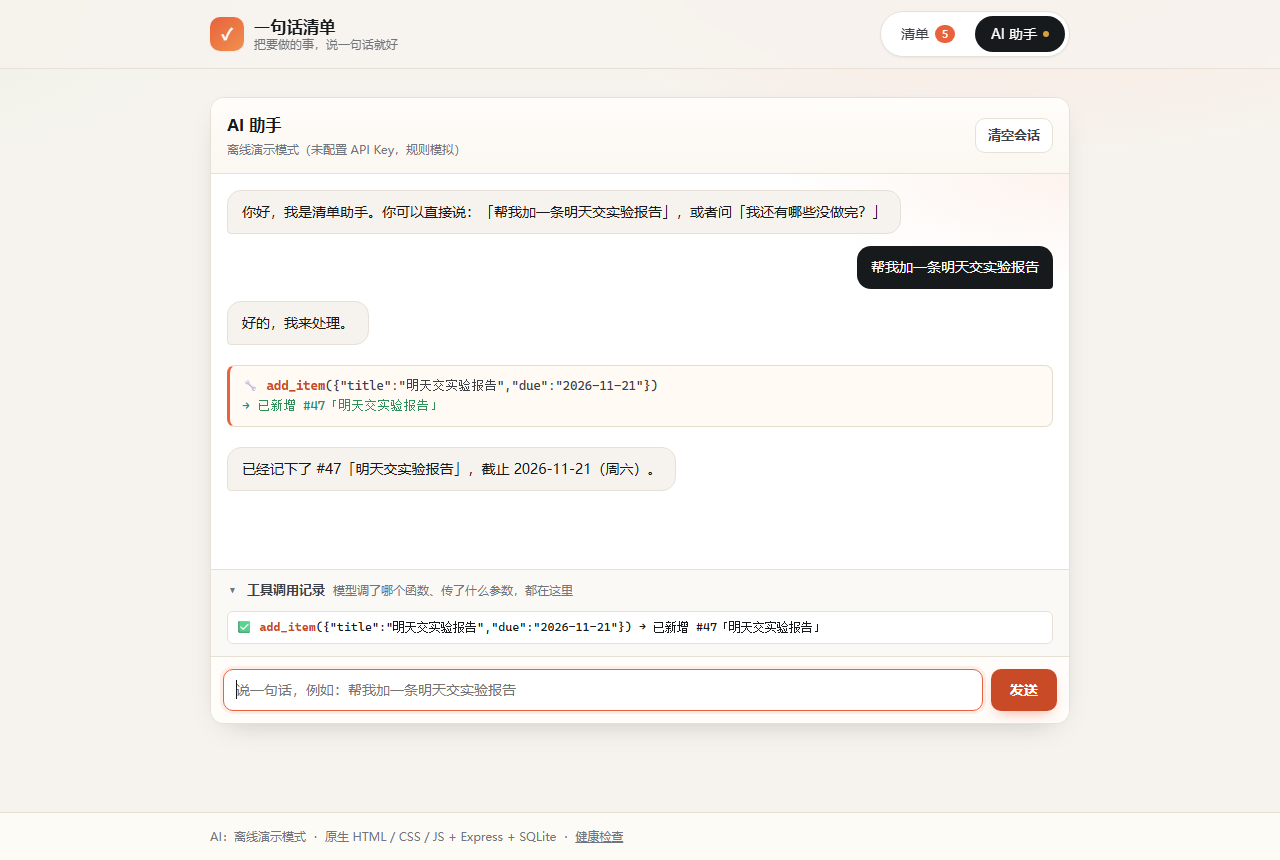
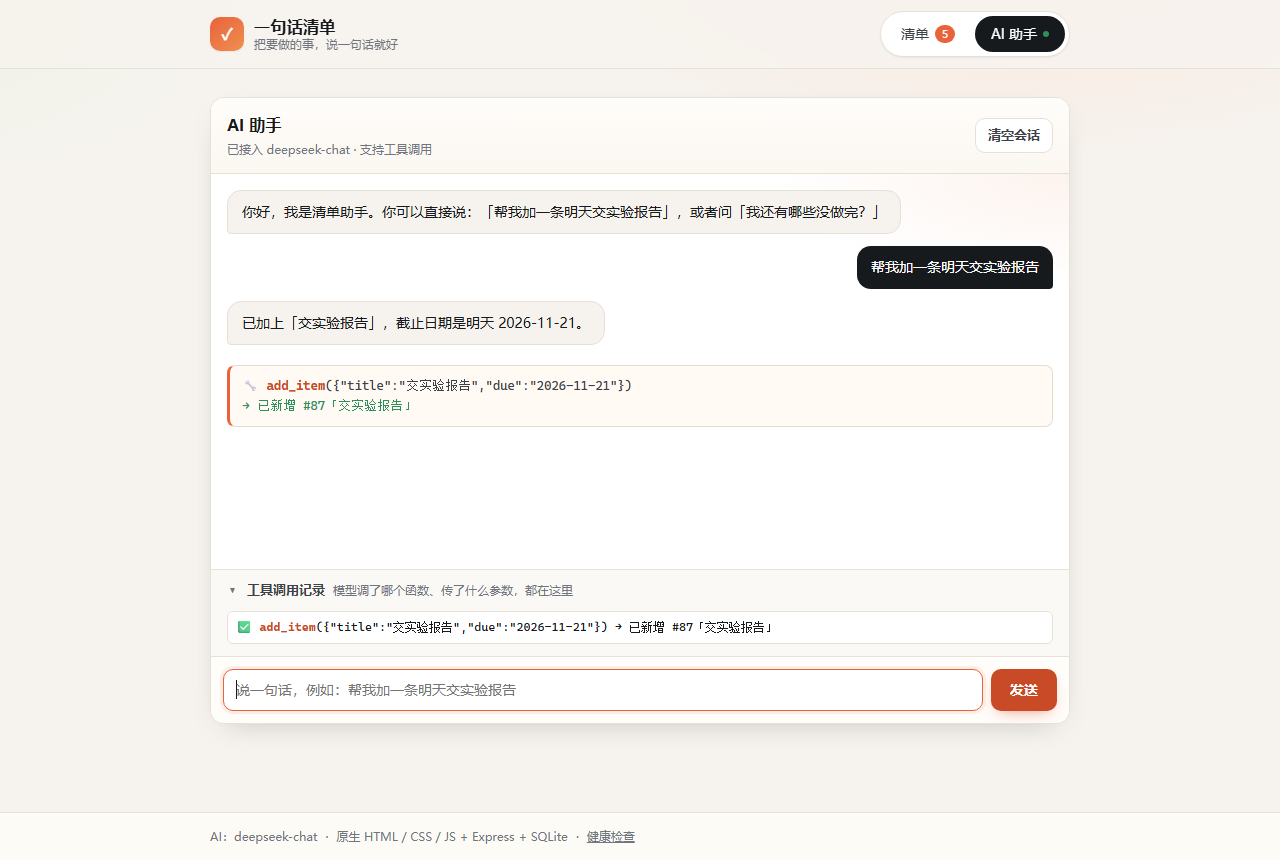
feat(ai): 接入真实 deepseek-chat，并修掉「明天」被算错日期的 bug
- 系统提示词动态注入当前日期与星期，相对日期必须先换算（事故 6）
- Key 只写进 .env（已 gitignore），不进仓库、不进前端请求
- 证据全部用真模型重拍：03 本地工具调用、15 线上工具调用、18 线上 4 轮上下文、19 Key 安全五查
- checklist 4.7 转 ✅，README 状态改为「已接入真实模型」

diff --git a/docs/incidents.md b/docs/incidents.md
@@ -239,3 +239,51 @@ taskkill /PID <pid> /F
 
 **经验**：改完代码没效果，先怀疑「你看的不是你以为的那个服务」。
 `/api/health` 里带上 `uptime` 和 `mode`，一眼就能认出是哪个进程。
+
+---
+
+## 事故 6 · 接入真模型后，"明天"变成了 2026-06-11
+
+**现象**
+
+换上真实 `deepseek-chat` 后第一次测：
+
+```
+用户：帮我加一条明天交实验报告
+模型：add_item({"title":"交实验报告","due":"2026-06-11"})
+```
+
+标题没问题，**日期完全错**：当天是 2026-11-20，明天应该是 2026-11-21。
+
+**定位**
+
+这不是模型"笨"，是信息缺失：模型没有系统时间，系统提示词里也没告诉它今天几号。
+它只能从训练数据里"猜"一个看起来合理的日期。mock 模式里我用 `guessDue()` 自己算，所以之前一直没暴露。
+
+**修复**
+
+每次请求现算日期，拼进 system 消息（`server/ai/agent.js`）：
+
+```js
+export function currentDatePrompt(now = new Date()) {
+  const iso = `${now.getFullYear()}-${String(now.getMonth() + 1).padStart(2, '0')}-${String(now.getDate()).padStart(2, '0')}`;
+  const weekday = '日一二三四五六'[now.getDay()];
+  return `当前日期：${iso}（周${weekday}）。凡是「今天/明天/后天/周五」这类相对日期，先按这个基准换算成 YYYY-MM-DD 再传给工具，不要自己猜。`;
+}
+
+// 组装 messages 时
+{ role: 'system', content: `${SYSTEM_PROMPT}\n\n${currentDatePrompt()}` }
+```
+
+**验证**
+
+```
+帮我加一条明天交实验报告        → add_item({title:"交实验报告",        due:"2026-11-21"})
+再帮我加一条后天下午三点开组会   → add_item({title:"下午三点开组会",    due:"2026-11-22"})
+```
+
+两天后再跑也不会错，因为日期是每次请求现算的，不是写死在提示词里。
+
+**经验**：凡是依赖"现在"的能力（日期、时区、周几），时间基准必须**显式传给模型**；
+模型不会自己去查系统时钟。这类 bug 在 mock 阶段是看不见的——这也说明 mock 只能验证链路，
+真实语义正确性必须用真模型回归一遍。

diff --git a/docs/evidence/README.md b/docs/evidence/README.md
@@ -20,11 +20,11 @@
 | `12-cors-fixed.png` | 白名单加上来源后，同一页面恢复正常 | 任务 3 |
 | `13-pages-live.png` | 线上 Pages 真实截图（Pages 前端 + 隧道后端，数据来自真接口） | 任务 1/6 |
 | `14-pages-ai-offline.png` | 后端断开时的兜底：AI 输入框被禁用并说明原因 | 任务 4/6 |
-| `15-live-ai-tool-call.png` | **线上**说一句话 → 工具卡片 → 数据库真的多一条 | 任务 5（关键证据） |
+| `15-live-ai-tool-call.png` | **线上真模型**：说一句话 → 工具卡片 → 数据库真的多一条 | 任务 5（关键证据） |
 | `16-restart-persistence.png` | 杀掉进程重启：uptime 归零但数据仍在（5 条逐条一致） | 任务 2（落盘） |
 | `17-state-empty.png` | 空态（线上，清空数据后） | 任务 3（三态之一） |
-| `18-live-context-4rounds.png` | 线上连说 4 轮，第 4 轮准确引用第 1 轮 | 任务 4（上下文） |
-| `19-key-safety.png` | Key 安全四道检查：.gitignore / 历史 / 前端 / 线上请求体 | 任务 4（Key 安全） |
+| `18-live-context-4rounds.png` | **线上真模型**连说 4 轮，第 4 轮准确引用第 1 轮 | 任务 4（上下文） |
+| `19-key-safety.png` | Key 安全五道检查（已配真 Key）：.env 打码 / 未跟踪 / 历史零命中 / 前端零命中 / 线上请求体零 Key | 任务 4（Key 安全） |
 | `key-safety.txt` | 上面那张图的原始命令与输出 | 任务 4 |
 | `restart-persistence.txt` | 16 的原始命令与输出 | 任务 2 |
 | `e2e.txt` | 浏览器端到端冒烟输出（9/9，本地） | 任务 3/6 |

diff --git a/docs/checklist.md b/docs/checklist.md
@@ -58,7 +58,7 @@
 | 4.4 | 像样的系统提示词 | ✅ | `agent.js` `SYSTEM_PROMPT` |
 | 4.5 | 错误说人话（401/429/超时/余额） | ✅ | `deepseek.js` `translateStatus` |
 | 4.6 | 「停止生成」按钮 | ✅ | 前端 abort + 后端 `res.on('close')` |
-| 4.7 | `.env` / `.gitignore` 截图 | ⚠ | 无 Key 版四道检查已出（`19-key-safety.png`）；真实 Key 打码截图仍缺，需申请 Key |
+| 4.7 | `.env` / `.gitignore` 截图 | ✅ | `19-key-safety.png`：Key 打码、未跟踪、历史零命中、前端零命中、线上请求体零 Key |
 | 4.8 | 流式录屏 | ⏳ | 需要你自己录（2 分钟脚本在 README 第 12 节） |
 
 ## 任务 5 · 工具调用
@@ -96,5 +96,4 @@
 
 1. **把后端换到常驻主机**（可选）。现在线上是「Pages + Cloudflare 隧道」，电脑关机就断。要长期可访问，
    按 `docs/deploy.md` 换成云主机/学生机；Render 现在可能要求绑卡，没有双币卡就走方案 C 或国内平台。
-2. **申请 DeepSeek Key** → 补 4.7 的 Key 安全三张截图，并把截图里的「离线演示模式」换成真实模型。
-3. **录 2 分钟屏** → 补 4.8 / 6.4。
+2. **录 2 分钟屏** → 补 4.8 / 6.4。

diff --git a/README.md b/README.md
@@ -19,8 +19,9 @@
 > 但隧道依赖跑服务的那台电脑开机、且隧道进程不退出——**电脑关机/重启，接口就会失效**。
 > 换成常驻主机的步骤见 [`docs/deploy.md`](docs/deploy.md)；隧道方案见同文件「方案 C」。
 >
-> AI 目前是**离线演示模式**（没有 `DEEPSEEK_API_KEY`，工具调用由规则模拟，走的是同一套执行器和数据库）。
-> 配 Key 后自动切真模型，见 [`docs/ai-setup.md`](docs/ai-setup.md)。
+> AI 已接入**真实模型** `deepseek-chat`：流式输出、工具调用、多轮上下文都在线上实测过（`15`、`18`）。
+> Key 只在服务端 `.env`，不进仓库、不出现在前端请求里（`19-key-safety.png`）。
+> 没有 Key 时自动退化为规则模拟，见 [`docs/ai-setup.md`](docs/ai-setup.md)。
 
 ---
 
